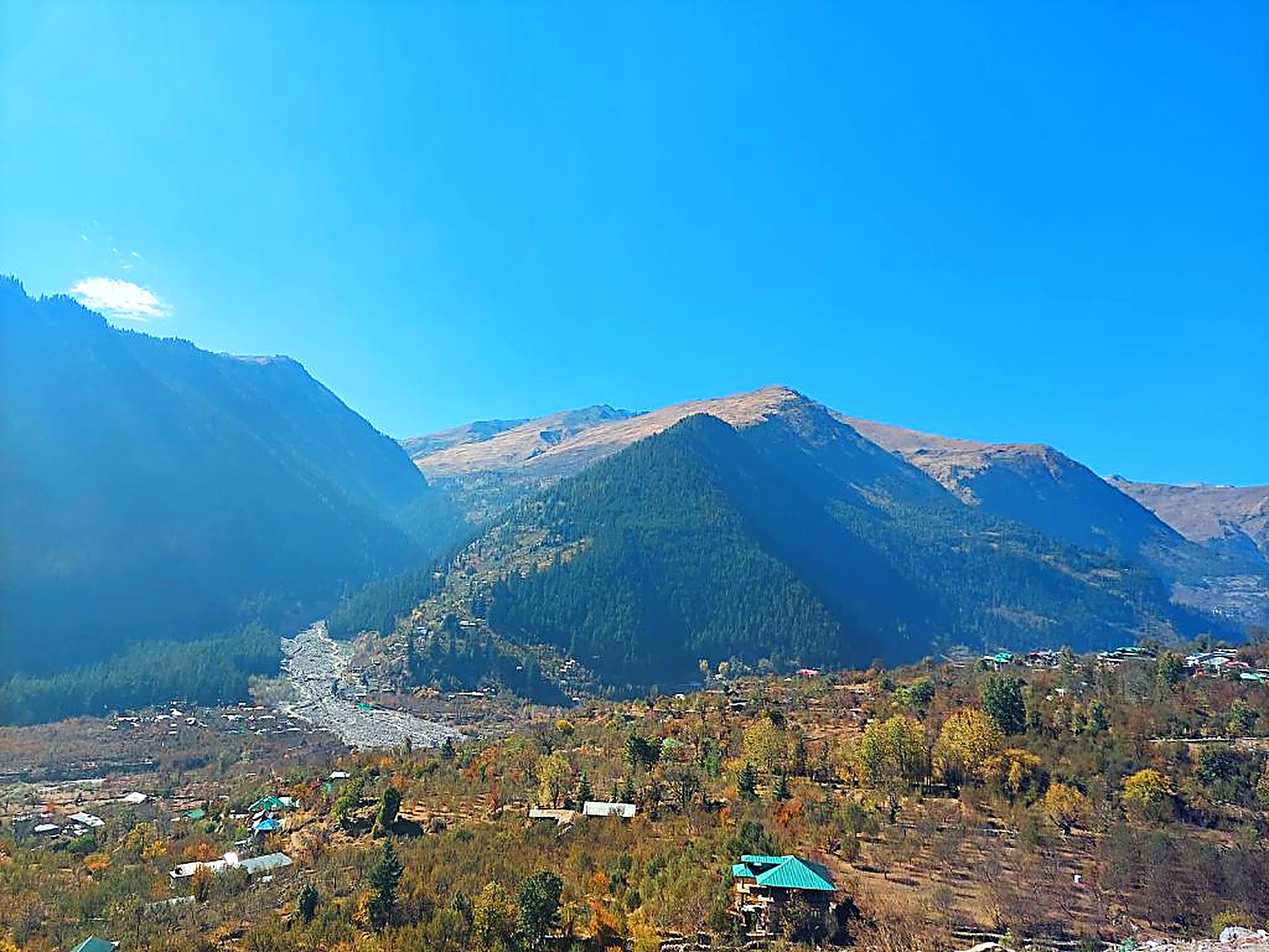
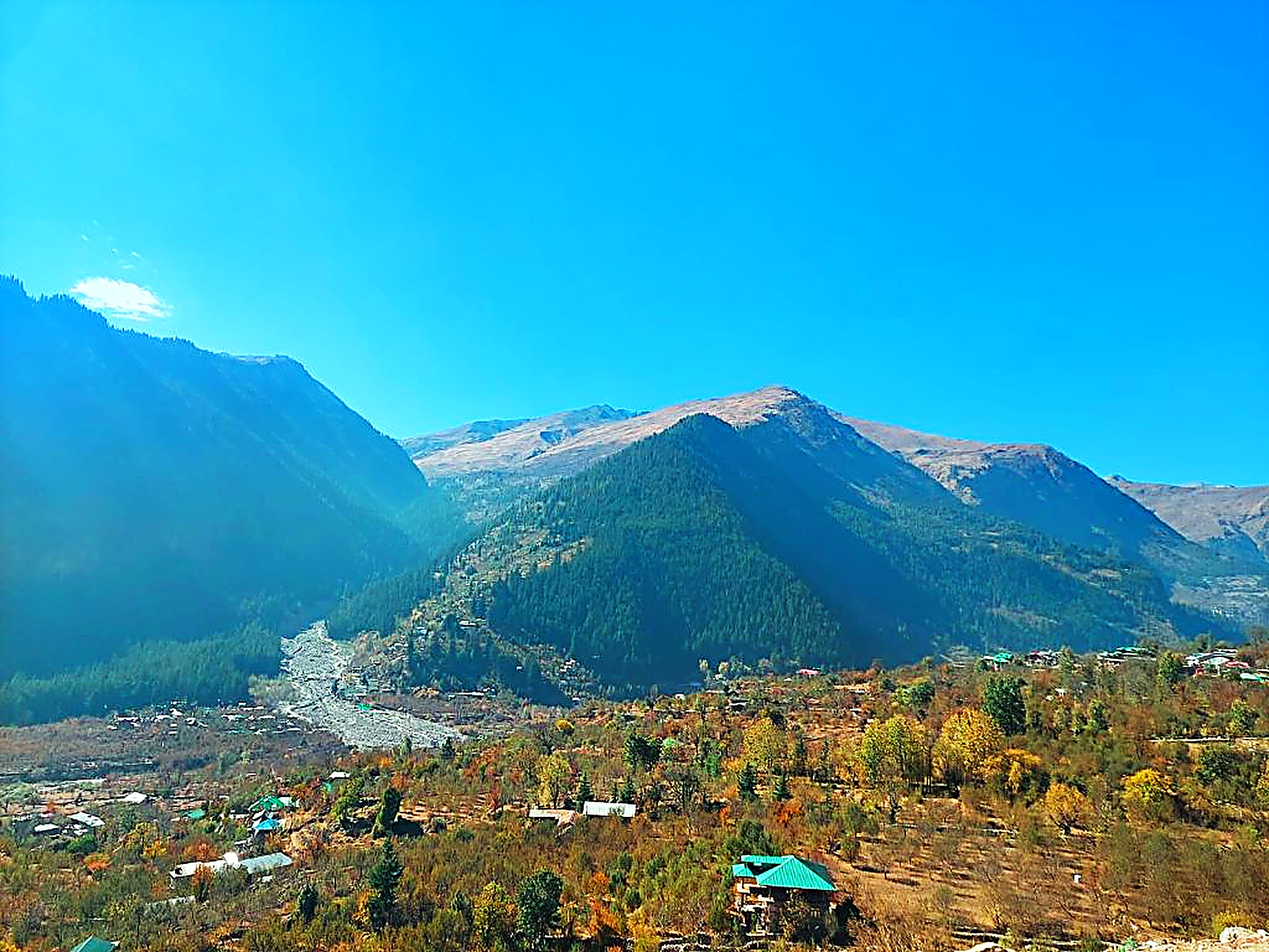
feat(ui): increase visibility, contrast, and color richness of Himalayan background theme

diff --git a/frontend/app/(public)/layout.tsx b/frontend/app/(public)/layout.tsx
@@ -18,11 +18,11 @@ export default function PublicLayout({
           src="/images/himalayan-valley-origin-theme.jpg"
           alt="Authentic Himalayan Mountain Origin Solan Himachal Pradesh"
           fill
-          className="object-cover object-[center_35%] scale-[1.02] opacity-[0.38] filter saturate-110 contrast-105"
+          className="object-cover object-[center_35%] scale-[1.02] opacity-[0.75] filter saturate-125 contrast-110"
           priority
         />
-        {/* Soft atmospheric daylight & ivory mist gradient overlay for pristine text contrast */}
-        <div className="absolute inset-0 bg-gradient-to-b from-[#F7F5EE]/45 via-[#F7F5EE]/25 to-[#F7F5EE]/55" />
+        {/* Subtle daylight mist gradient overlay so the mountain theme is vividly visible */}
+        <div className="absolute inset-0 bg-gradient-to-b from-white/20 via-transparent to-[#F7F5EE]/30" />
       </div>
 
       <div className="relative z-10 flex flex-col min-h-screen">

diff --git a/frontend/app/(public)/page.tsx b/frontend/app/(public)/page.tsx
@@ -176,7 +176,7 @@ export default async function HomePage() {
       </section>
 
       {/* 4. FEATURED PRODUCTS SHOWCASE */}
-      <section className="bg-white/40 backdrop-blur-sm py-16 border-y border-beige/60">
+      <section className="bg-white/20 backdrop-blur-[2px] py-16 border-y border-beige/40">
         <div className="max-w-7xl mx-auto px-4 sm:px-6 lg:px-8">
           <div className="text-center max-w-2xl mx-auto mb-12 space-y-2">
             <span className="text-xs font-bold uppercase tracking-widest text-gold-dark">
